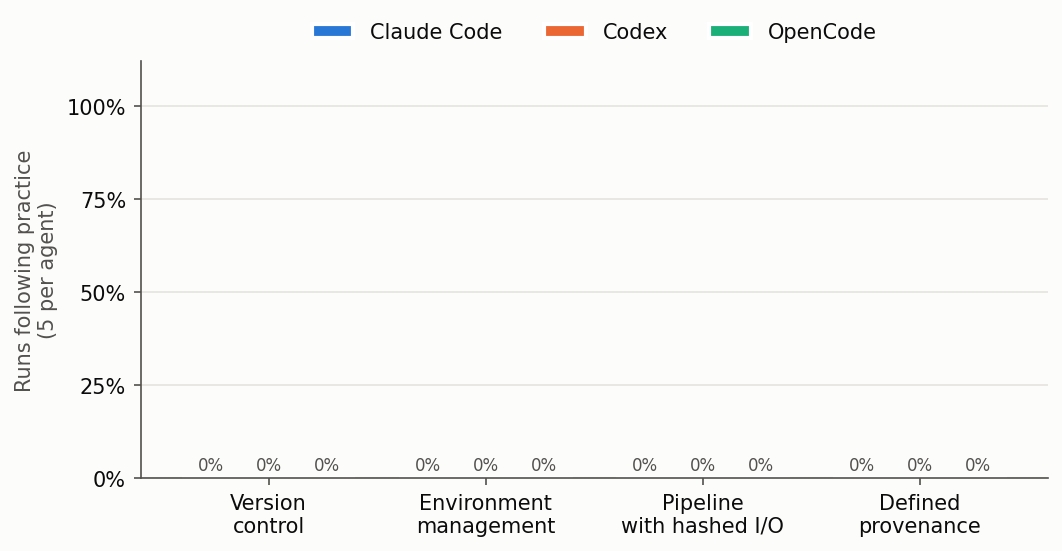
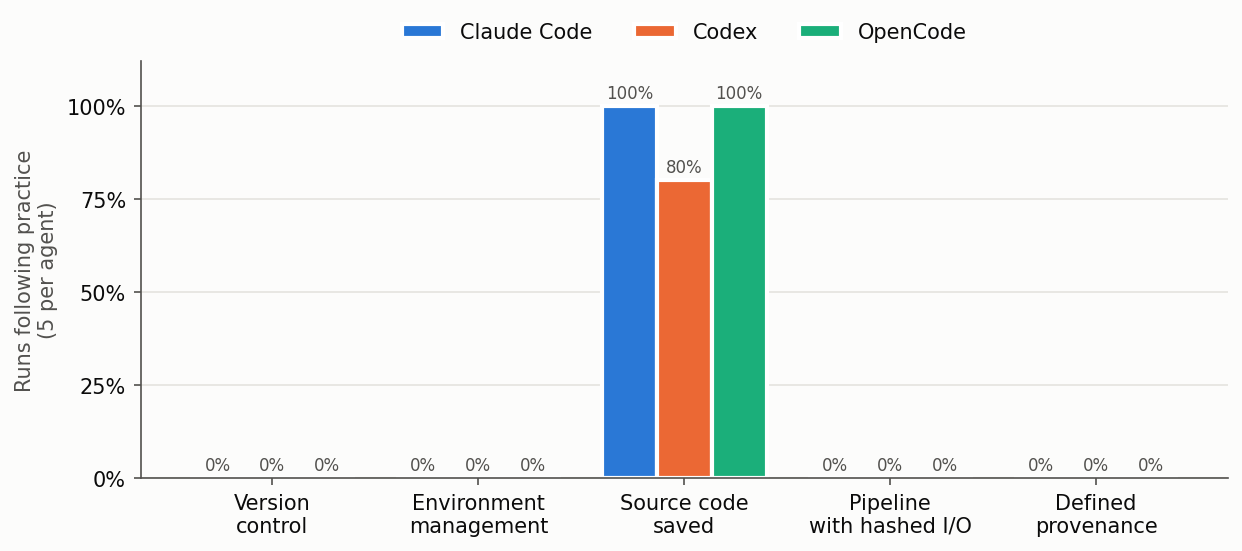
Score and show whether the source code was saved, as a prerequisite of a pipeline

diff --git a/scripts/plot_practices.py b/scripts/plot_practices.py
@@ -1,5 +1,8 @@
 """Plot the share of each agent's runs following the four practices.
 
+Whether the source code was saved, a prerequisite of a pipeline, is shown
+just before the pipeline practice.
+
 One figure for the reproducibility experiment's no-git condition, where
 agents weren't told about reproducibility (the condition with Git
 installed scored the same), and one for the use-calkit experiment's
@@ -19,7 +22,7 @@ from common import (
     save_fig,
     style_axes,
 )
-from score_reproducibility import PRACTICES
+from score_reproducibility import PRACTICES, SOURCE_CODE
 
 AGENT_NAMES = {"claude": "Claude Code", "codex": "Codex",
                "opencode": "OpenCode"}
@@ -29,25 +32,37 @@ FIGURES = [
 ]
 
 
+def measures() -> dict[str, str]:
+    """The practices, with source code saved just before the pipeline."""
+    out = {}
+    for key, label in PRACTICES.items():
+        if key == "pipeline_hashed_io":
+            out.update(SOURCE_CODE)
+        out[key] = label
+    return out
+
+
 def plot(by_agent: dict, path) -> None:
+    shown = measures()
     labels = [v.replace(" ", "\n", 1) if v.count(" ") == 1
-              else v.replace(" with ", "\nwith ")
-              for v in PRACTICES.values()]
+              else v.replace(" with ", "\nwith ").replace(" code ",
+                                                           " code\n")
+              for v in shown.values()]
     # Fixed agent order, so each keeps its color across figures
     agents = [a for a in AGENT_STYLE if a in by_agent]
     width = 0.8 / len(agents)
-    fig, ax = plt.subplots(figsize=(7.2, 3.8))
+    fig, ax = plt.subplots(figsize=(8.4, 3.8))
     style_axes(ax)
     for i, agent in enumerate(agents):
         x = [j + (i - (len(agents) - 1) / 2) * width
-             for j in range(len(PRACTICES))]
-        vals = [100 * by_agent[agent][f"frac_{p}"] for p in PRACTICES]
+             for j in range(len(shown))]
+        vals = [100 * by_agent[agent][f"frac_{p}"] for p in shown]
         bars = ax.bar(x, vals, width=width, color=AGENT_STYLE[agent]["color"],
                       edgecolor="white", linewidth=2,
                       label=AGENT_NAMES[agent])
         ax.bar_label(bars, labels=[f"{v:.0f}%" for v in vals], padding=2,
                      fontsize=8, color=TEXT_SECONDARY)
-    ax.set_xticks(range(len(PRACTICES)), labels, color=TEXT)
+    ax.set_xticks(range(len(shown)), labels, color=TEXT)
     ax.set_ylim(0, 112)
     ax.set_yticks([0, 25, 50, 75, 100], ["0%", "25%", "50%", "75%", "100%"])
     n = by_agent[agents[0]]["n_runs"]

diff --git a/scripts/score_reproducibility.py b/scripts/score_reproducibility.py
@@ -24,6 +24,11 @@ file with where it came from (e.g., "provided by", "collected by",
 data, where it came from, or for its ``created_by`` or ``imported_from``.
 Matching text is saved with each run so the classification can be audited.
 
+Also scored, as a prerequisite of the pipeline practice rather than a
+practice of its own, is whether the source code was saved: every figure is
+named by a script in the workspace (``figures_scripted``), not made with
+code passed straight to an interpreter.
+
 Hashes are recorded by any of:
 
 - a DVC lock file (``dvc.lock``, which Calkit also writes), whose stages
@@ -86,6 +91,8 @@ PRACTICES = {
     "pipeline_hashed_io": "Pipeline with hashed I/O",
     "defined_provenance": "Defined provenance",
 }
+# A prerequisite of a pipeline, shown beside the practices but not one
+SOURCE_CODE = {"figures_scripted": "Source code saved"}
 ENV_SPECS = re.compile(
     r"^(requirements.*\.txt|pyproject\.toml|environment\.ya?ml|Pipfile|"
     r"pixi\.toml|setup\.py|setup\.cfg|conda\.ya?ml|renv\.lock|Project\.toml)$"

diff --git a/scripts/score_use_calkit.py b/scripts/score_use_calkit.py
@@ -153,6 +153,7 @@ def summarize(records: list[dict]) -> dict:
         "pipeline_current", "figures_from_pipeline", "committed",
         "ran_calkit", "loaded_skill", "timed_out", "has_commits",
         "env_declared", "data_source_defined", "uncited_reference_values",
+        "figures_scripted",
     ]
     out = {"n_runs": len(records)}
     out.update({f"frac_{k}": frac(records, k) for k in keys})

diff --git a/README.md b/README.md
@@ -126,6 +126,11 @@ others.
      or ask, and cite any reference values quoted. Comparing results with
      "typical handbook values" without a citation breaks this practice.
 
+  Whether the source code was saved, i.e., every figure is made by a
+  script in the project rather than code passed straight to an
+  interpreter, is scored too, as a prerequisite of practice 3 rather than
+  a practice of its own.
+
   In a `no-git` condition the same request is made on a machine without
   Git, and the sessions are checked for whether agents try Git, notice it
   is missing, or suggest or attempt installing it.
